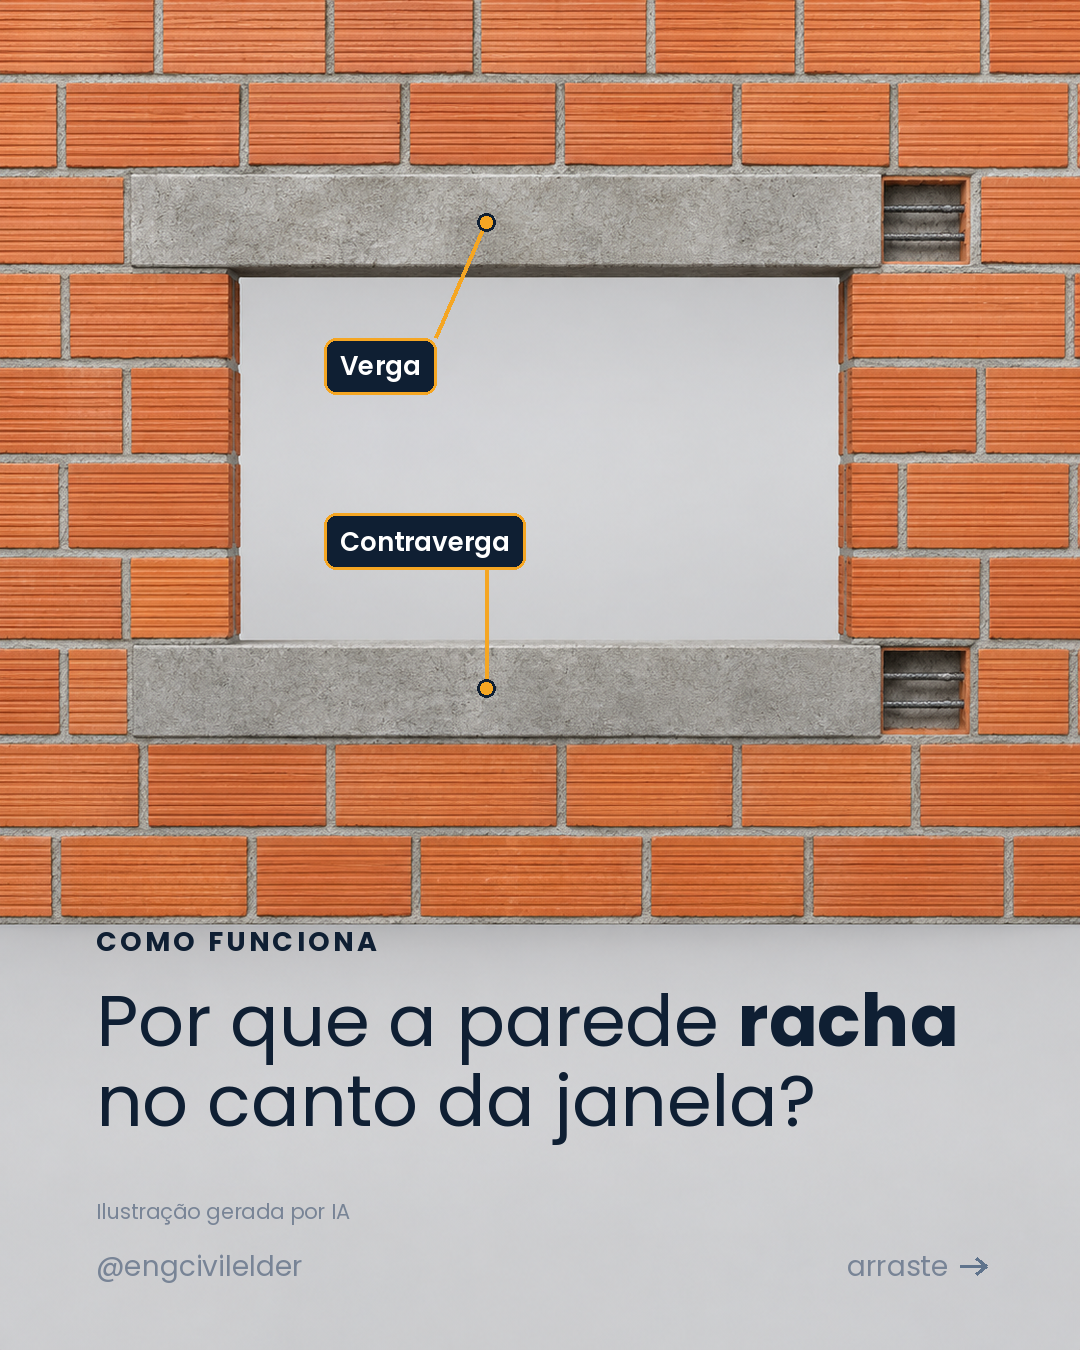
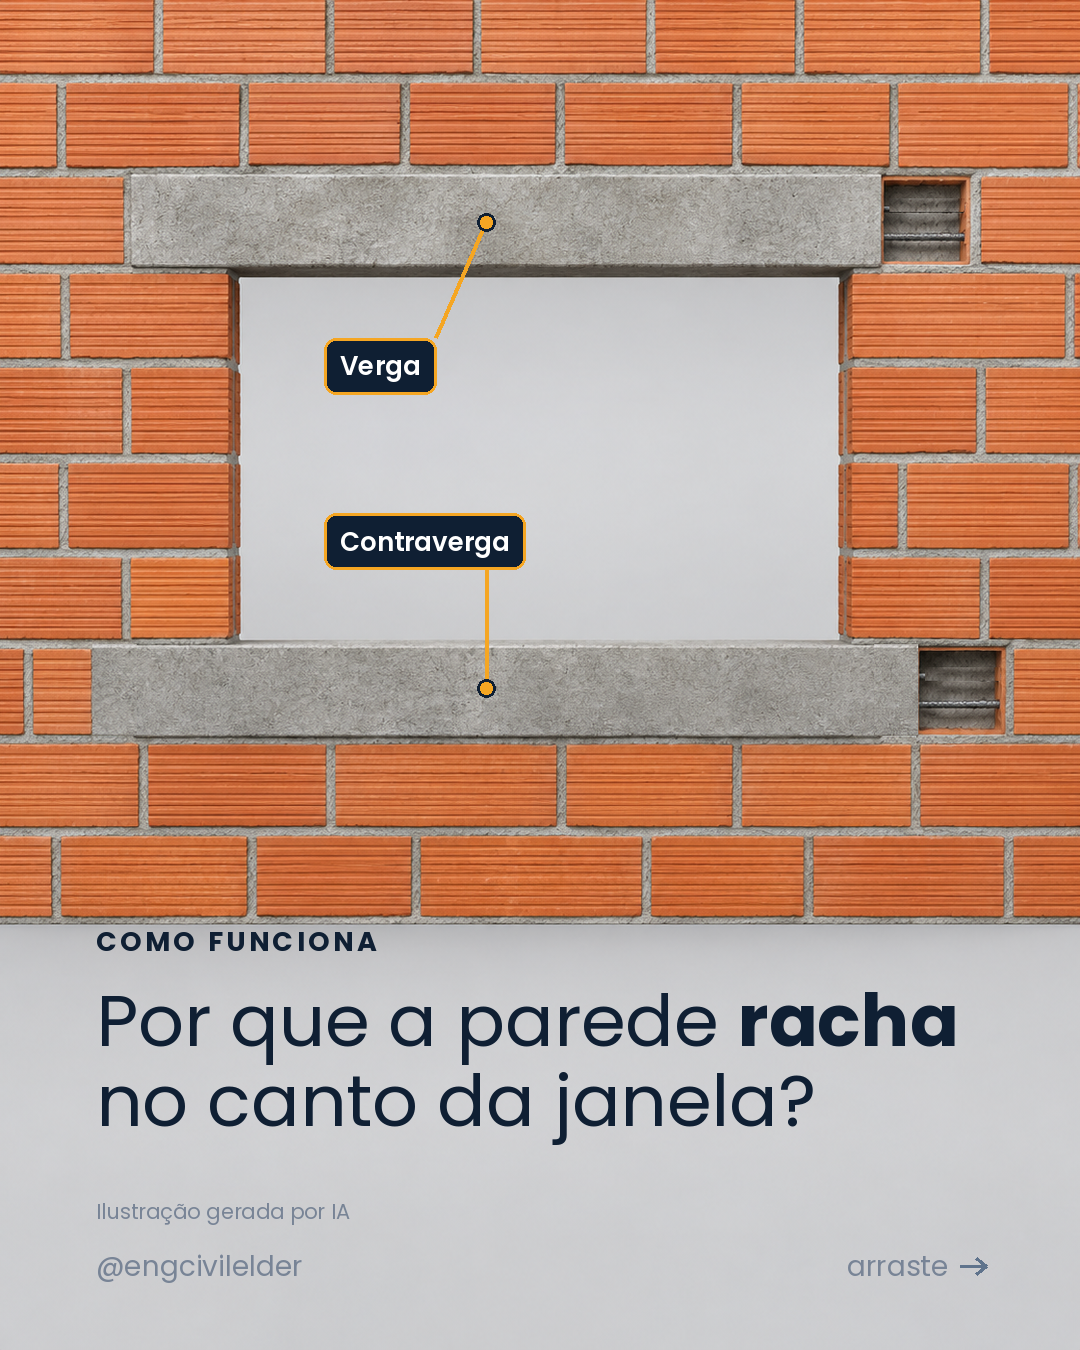
Sexta 04/12: contraverga mais longa que a verga e barras no fundo do U
Claude-Session: https://claude.ai/code/session_01QVRnNt61BgGyKrWc7HYNpC

diff --git a/README_fontes.md b/README_fontes.md
@@ -66,4 +66,4 @@ crédito não se perca do arquivo.
 | `2026-09-30-duplicacao-dutra.jpg` (reuso) | Canteiro da duplicação da Dutra na Serra das Araras; capa de quarta 02/12 | Ricardo Stuckert/PR (Agência Brasil) | https://agenciabrasil.ebc.com.br/geral/noticia/2026-09/ampliacao-da-dutra-no-grande-rio-deve-ser-concluida-em-um-ano |
 | `2026-10-28-linkedin-trabalhador-forma.jpg` (reuso) | Trabalhador conferindo fôrma; foto do LinkedIn de quarta 02/12 (`2026-12-02/linkedin.jpg`) | Rovena Rosa/Agência Brasil, CC BY 3.0 BR | ver linha original |
 | `2026-10-26-trabalhador-armadura.jpg` (reuso) | Operário sobre armadura de laje; foto do LinkedIn de sexta 04/12 (`2026-12-04/linkedin.jpg`, cópia de `2026-11-27/linkedin.jpg`) | Fabio Rodrigues-Pozzebom/Agência Brasil, CC BY 3.0 BR | ver linha original |
-| `ia/2026-12-04.png` | Parede de alvenaria com vão de janela, verga e contraverga com recorte mostrando bloco canaleta e duas barras; Como funciona de sexta 04/12 | Ilustração gerada por IA (feita pelo Elder) | — |
+| `ia/2026-12-04.png` | Parede de alvenaria com vão de janela, verga e contraverga com recorte mostrando bloco canaleta e duas barras; Como funciona de sexta 04/12 | Ilustração gerada por IA (feita pelo Elder); contraverga alongada e barra de cima removida na edição | — |
